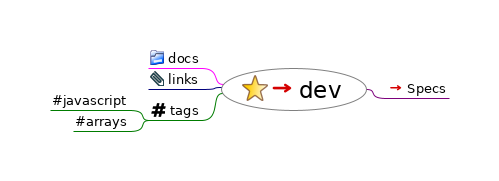
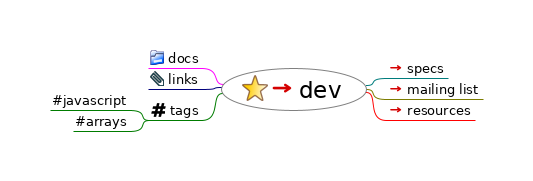
add dev items

Changed region(s): [[0.0902, 0.2762, 0.9018, 0.7459], [0.7214, 0.663, 0.9018, 0.6906]]

diff --git a/dev/index.html b/dev/index.html
@@ -1,5 +1,5 @@
 <?xml version="1.0" encoding="UTF-8"?><!DOCTYPE html PUBLIC "-//W3C//DTD XHTML 1.1//EN" "http://www.w3.org/TR/xhtml11/DTD/xhtml11.dtd">
-<html xmlns="http://www.w3.org/1999/xhtml"><meta http-equiv="Content-Type" content="text/html; charset=UTF-8" /><!--This file has been created with freeplane2html.xsl--><head><title>dev</title><link rel="stylesheet" href="index.html_files/freeplane2html.css" type="text/css" /><meta name="generator" content="Freeplane-XSL Stylesheet (see: http://freeplane-xsl.dev.slash-me.net/ for details)" /><script type="text/javascript" src="index.html_files/freeplane2html.js"> 
+<html xmlns="http://www.w3.org/1999/xhtml"><meta http-equiv="Content-Type" content="text/html; charset=UTF-8" /><!--This file has been created with processhtml.sh--><head><title>dev</title><link rel="stylesheet" href="index.html_files/freeplane2html.css" type="text/css" /><meta name="generator" content="Freeplane-XSL Stylesheet (see: http://freeplane-xsl.dev.slash-me.net/ for details)" /><script type="text/javascript" src="index.html_files/freeplane2html.js"> 
 	</script><script type="text/javascript"><!--
           
                function toggle(id)
@@ -23,14 +23,16 @@
                    };
                };
           
-          --></script></head><body><h1>dev</h1><div style="width:96%;  padding:2%;  margin-bottom:10px;  border: 0px;  text-align:center;  vertical-align:center;"><img src="index.html_files/image.png" style="margin-bottom:10px; &#9;border: 0px; &#9;text-align:center; &#9;vertical-align:center;" alt="Imagemap" usemap="#fm_imagemap" /></div><map name="fm_imagemap" id="fm_imagemap"><area shape="rect" href="#FMID_1831615648FM" alt="dev" title="dev" coords="221,68,367,111" />
+          --></script></head><body><h1>dev</h1><div style="width:96%;  padding:2%;  margin-bottom:10px;  border: 0px;  text-align:center;  vertical-align:center;"><img src="index.html_files/image.png" style="margin-bottom:10px; &#9;border: 0px; &#9;text-align:center; &#9;vertical-align:center;" alt="Imagemap" usemap="#fm_imagemap" /></div><map name="fm_imagemap" id="fm_imagemap"><area shape="rect" href="../index.html" alt="dev" title="dev" coords="221,68,367,111" />
 <area shape="rect" href="#FMID_1100215200FM" alt="docs" title="docs" coords="148,50,202,68" />
 <area shape="rect" href="#FMID_808607355FM" alt="links" title="links" coords="148,71,202,89" />
 <area shape="rect" href="#FMID_466759422FM" alt="tags" title="tags" coords="149,102,202,120" />
 <area shape="rect" href="#FMID_1903100884FM" alt="#javascript" title="#javascript" coords="50,92,130,110" />
 <area shape="rect" href="#FMID_574380056FM" alt="#arrays" title="#arrays" coords="73,113,130,131" />
-<area shape="rect" href="#FMID_1625999647FM" alt="Specs" title="Specs" coords="386,80,449,98" />
+<area shape="rect" href="spec/index.html" alt="specs" title="specs" coords="386,60,448,78" />
+<area shape="rect" href="https://lists.linuxfoundation.org/pipermail/lightning-dev/" alt="mailing list" title="mailing list" coords="386,81,483,99" />
+<area shape="rect" href="https://github.com/bcongdon/awesome-lightning-network#developer-resources" alt="resources" title="resources" coords="386,102,475,120" />
 </map>
 
-<div class="node"><img src="index.html_files/hide.png" class="hideshow" alt="hide" onClick="toggle(&quot;N65543&quot;)" id="imgN65543" /><img src="index.html_files/icons/bookmark.png" alt="bookmark" /> <a id="FMID_1831615648FM" /><div class="nodecontent" style="color:#000000;font-size:150%;"><a href="../index.mm">dev</a> <a href="../index.mm"><img src="index.html_files/ilink.png" alt="User Link" style="border-width:0" /></a></div><div class="content" id="N65543"><div class="node"><img src="index.html_files/leaf.png" class="hideshow" alt="leaf" /><img src="index.html_files/icons/folder.png" alt="folder" /> <a id="FMID_1100215200FM" /><div class="nodecontent" style="color:#000000;font-size:83%;">docs</div></div><div class="node"><img src="index.html_files/leaf.png" class="hideshow" alt="leaf" /><img src="index.html_files/icons/attach.png" alt="attach" /> <a id="FMID_808607355FM" /><div class="nodecontent" style="color:#000000;font-size:83%;">links</div></div><div class="node"><img src="index.html_files/hide.png" class="hideshow" alt="hide" onClick="toggle(&quot;N66529&quot;)" id="imgN66529" /><img src="index.html_files/icons/hashtag.png" alt="hashtag" /> <a id="FMID_466759422FM" /><div class="nodecontent" style="color:#000000;font-size:83%;">tags</div><div class="content" id="N66529"><div class="node"><img src="index.html_files/leaf.png" class="hideshow" alt="leaf" /><a id="FMID_1903100884FM" /><div class="nodecontent" style="color:#000000;font-size:83%;">#javascript</div></div><div class="node"><img src="index.html_files/leaf.png" class="hideshow" alt="leaf" /><a id="FMID_574380056FM" /><div class="nodecontent" style="color:#000000;font-size:83%;">#arrays</div></div></div></div><div class="node"><img src="index.html_files/leaf.png" class="hideshow" alt="leaf" /><a id="FMID_1625999647FM" /><div class="nodecontent" style="color:#000000;font-size:83%;"><a href="../spec/index.mm">Specs</a> <a href="../spec/index.mm"><img src="index.html_files/ilink.png" alt="User Link" style="border-width:0" /></a></div></div></div></div>
+<div class="node"><img src="index.html_files/hide.png" class="hideshow" alt="hide" onClick="toggle(&quot;N65543&quot;)" id="imgN65543" /><img src="index.html_files/icons/bookmark.svg" alt="bookmark" /> <a id="FMID_1831615648FM" /><div class="nodecontent" style="color:#000000;font-size:150%;"><a href="../index.html">dev</a> <a href="../index.html"><img src="index.html_files/ilink.png" alt="User Link" style="border-width:0" /></a></div><div class="content" id="N65543"><div class="node"><img src="index.html_files/leaf.png" class="hideshow" alt="leaf" /><img src="index.html_files/icons/folder.svg" alt="folder" /> <a id="FMID_1100215200FM" /><div class="nodecontent" style="color:#000000;font-size:83%;">docs</div></div><div class="node"><img src="index.html_files/leaf.png" class="hideshow" alt="leaf" /><img src="index.html_files/icons/attach.svg" alt="attach" /> <a id="FMID_808607355FM" /><div class="nodecontent" style="color:#000000;font-size:83%;">links</div></div><div class="node"><img src="index.html_files/hide.png" class="hideshow" alt="hide" onClick="toggle(&quot;N66529&quot;)" id="imgN66529" /><img src="index.html_files/icons/hashtag.png" alt="hashtag" /> <a id="FMID_466759422FM" /><div class="nodecontent" style="color:#000000;font-size:83%;">tags</div><div class="content" id="N66529"><div class="node"><img src="index.html_files/leaf.png" class="hideshow" alt="leaf" /><a id="FMID_1903100884FM" /><div class="nodecontent" style="color:#000000;font-size:83%;">#javascript</div></div><div class="node"><img src="index.html_files/leaf.png" class="hideshow" alt="leaf" /><a id="FMID_574380056FM" /><div class="nodecontent" style="color:#000000;font-size:83%;">#arrays</div></div></div></div><div class="node"><img src="index.html_files/leaf.png" class="hideshow" alt="leaf" /><a id="FMID_1858353829FM" /><div class="nodecontent" style="color:#000000;font-size:83%;"><a href="spec/index.html">specs</a> <a href="spec/index.html"><img src="index.html_files/ilink.png" alt="User Link" style="border-width:0" /></a></div></div><div class="node"><img src="index.html_files/leaf.png" class="hideshow" alt="leaf" /><a id="FMID_307649319FM" /><div class="nodecontent" style="color:#000000;font-size:83%;"><a href="https://lists.linuxfoundation.org/pipermail/lightning-dev/">mailing list</a> <a href="https://lists.linuxfoundation.org/pipermail/lightning-dev/"><img src="index.html_files/ilink.png" alt="User Link" style="border-width:0" /></a></div></div><div class="node"><img src="index.html_files/leaf.png" class="hideshow" alt="leaf" /><a id="FMID_1911540836FM" /><div class="nodecontent" style="color:#000000;font-size:83%;"><a href="https://github.com/bcongdon/awesome-lightning-network#developer-resources">resources</a> <a href="https://github.com/bcongdon/awesome-lightning-network#developer-resources"><img src="index.html_files/ilink.png" alt="User Link" style="border-width:0" /></a></div></div></div></div>
 </body></html>

diff --git a/dev/index.mm b/dev/index.mm
@@ -64,7 +64,7 @@
 </stylenode>
 </map_styles>
 </hook>
-<hook NAME="AutomaticEdgeColor" COUNTER="9" RULE="ON_BRANCH_CREATION"/>
+<hook NAME="AutomaticEdgeColor" COUNTER="12" RULE="ON_BRANCH_CREATION"/>
 <node TEXT="docs" POSITION="left" ID="ID_1100215200" CREATED="1570969039178" MODIFIED="1570980265221">
 <icon BUILTIN="folder"/>
 <edge COLOR="#ff00ff"/>
@@ -79,8 +79,14 @@
 <node TEXT="#javascript" ID="ID_1903100884" CREATED="1571980549151" MODIFIED="1571980553198"/>
 <node TEXT="#arrays" ID="ID_574380056" CREATED="1571980554162" MODIFIED="1571980558584"/>
 </node>
-<node TEXT="Specs" POSITION="right" ID="ID_1625999647" CREATED="1572862787486" MODIFIED="1572862876394" LINK="../spec/index.mm">
-<edge COLOR="#7c007c"/>
+<node TEXT="specs" POSITION="right" ID="ID_1858353829" CREATED="1569861461668" MODIFIED="1572863042047" LINK="spec/index.mm">
+<edge COLOR="#007c7c"/>
+</node>
+<node TEXT="mailing list" POSITION="right" ID="ID_307649319" CREATED="1572859082436" MODIFIED="1572863042048" LINK="https://lists.linuxfoundation.org/pipermail/lightning-dev/">
+<edge COLOR="#7c7c00"/>
+</node>
+<node TEXT="resources" POSITION="right" ID="ID_1911540836" CREATED="1572861720975" MODIFIED="1572863042051" LINK="https://github.com/bcongdon/awesome-lightning-network#developer-resources">
+<edge COLOR="#ff0000"/>
 </node>
 </node>
 </map>
